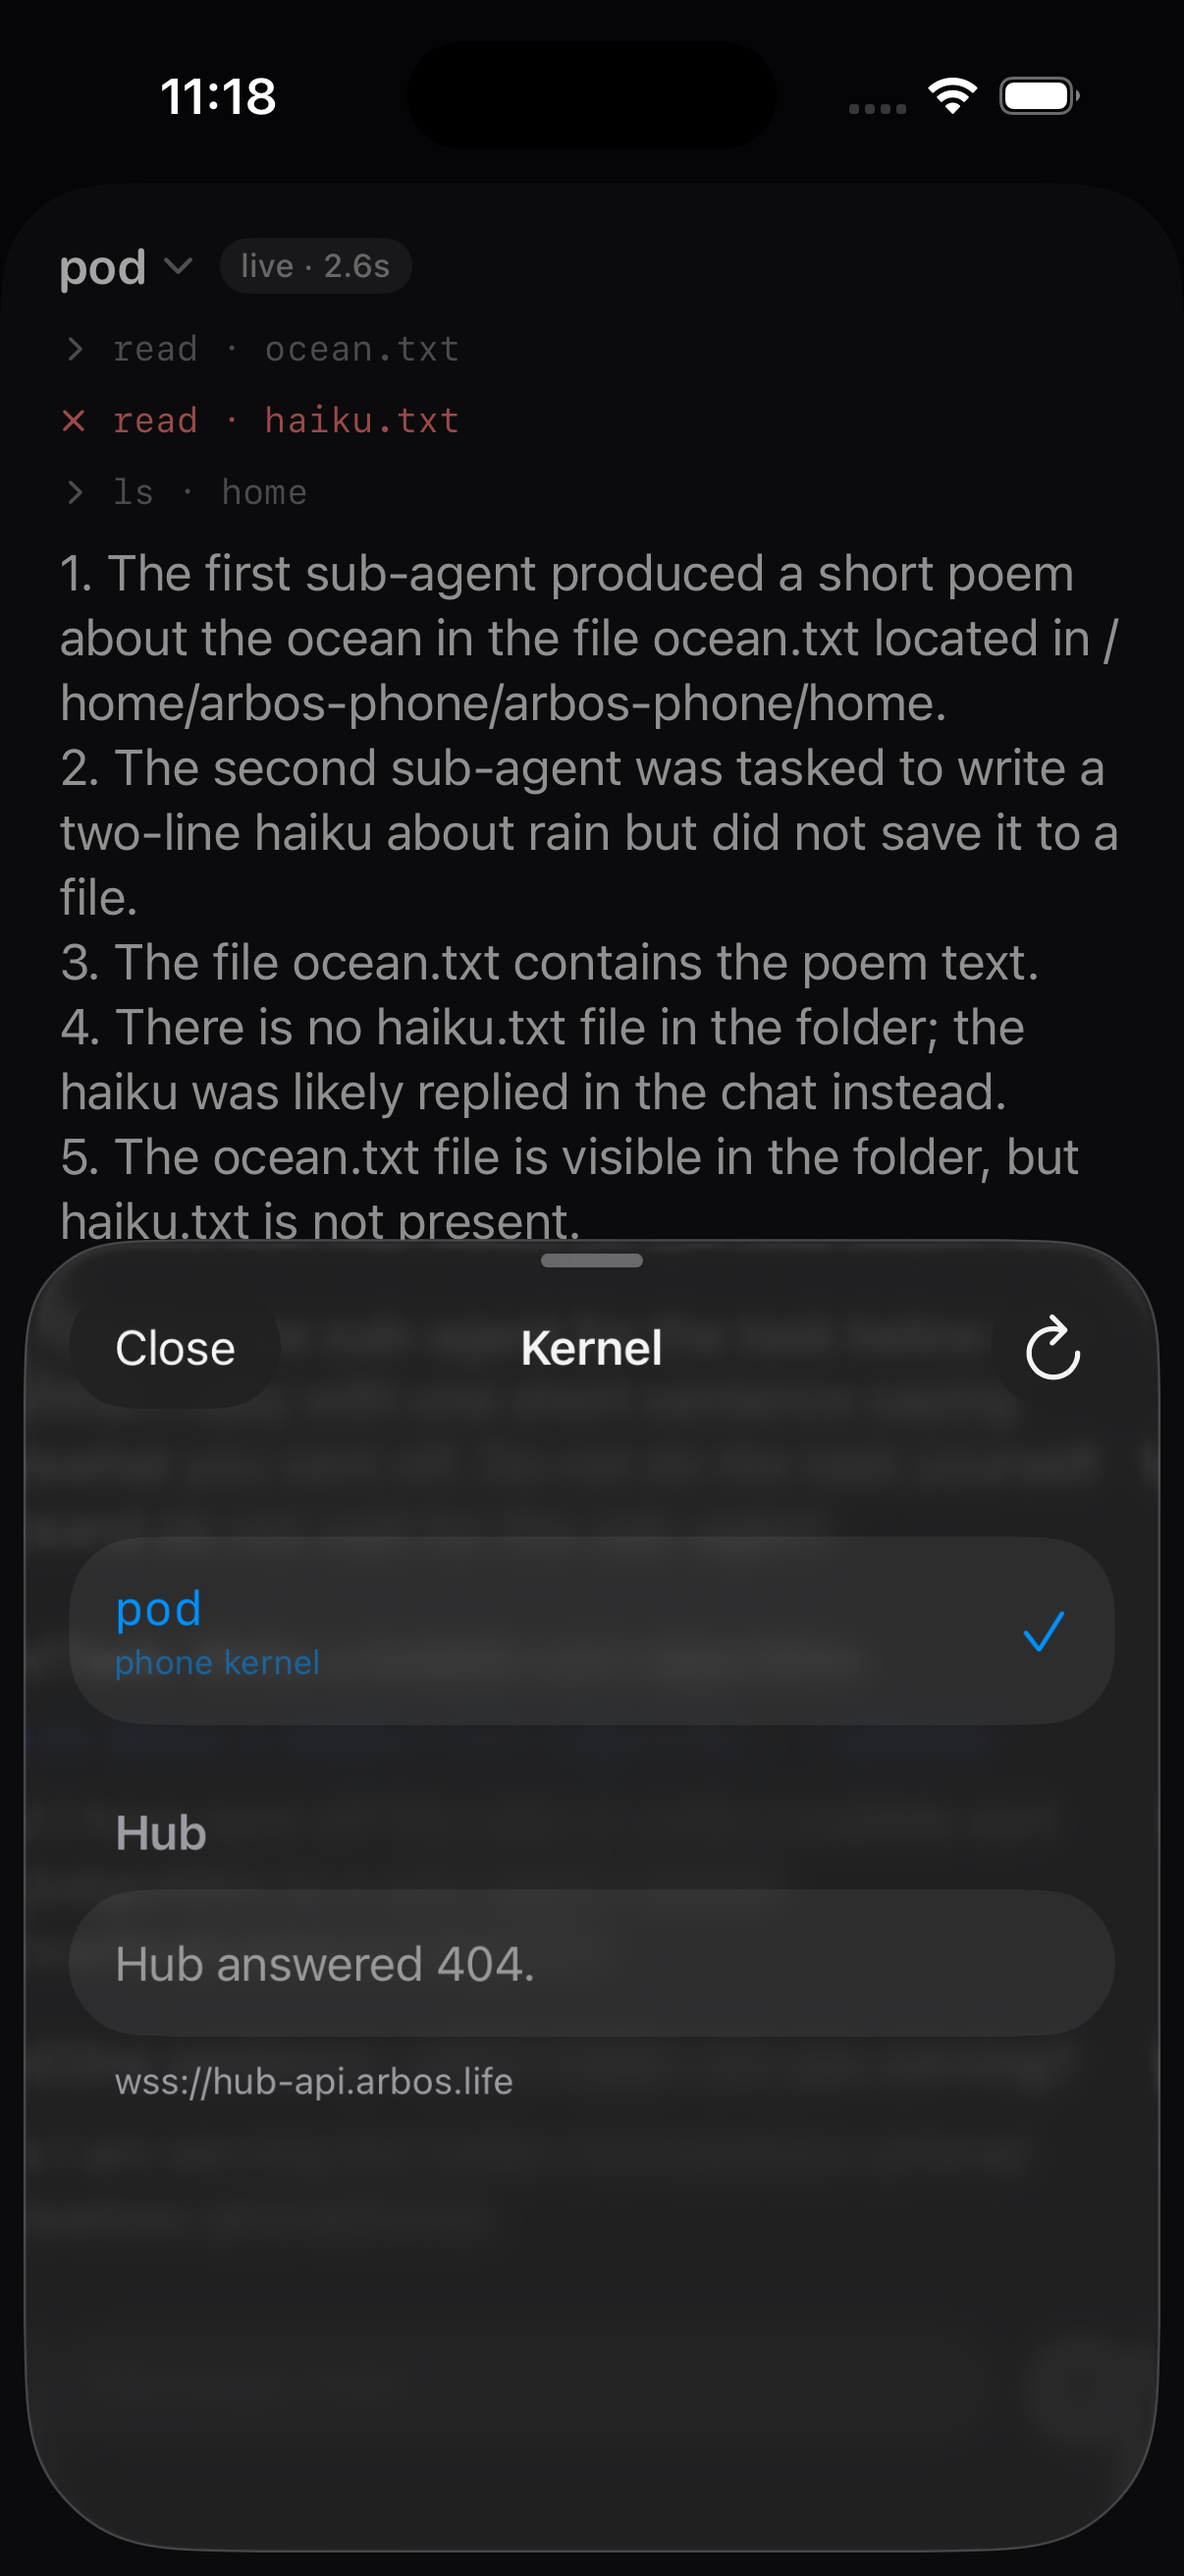
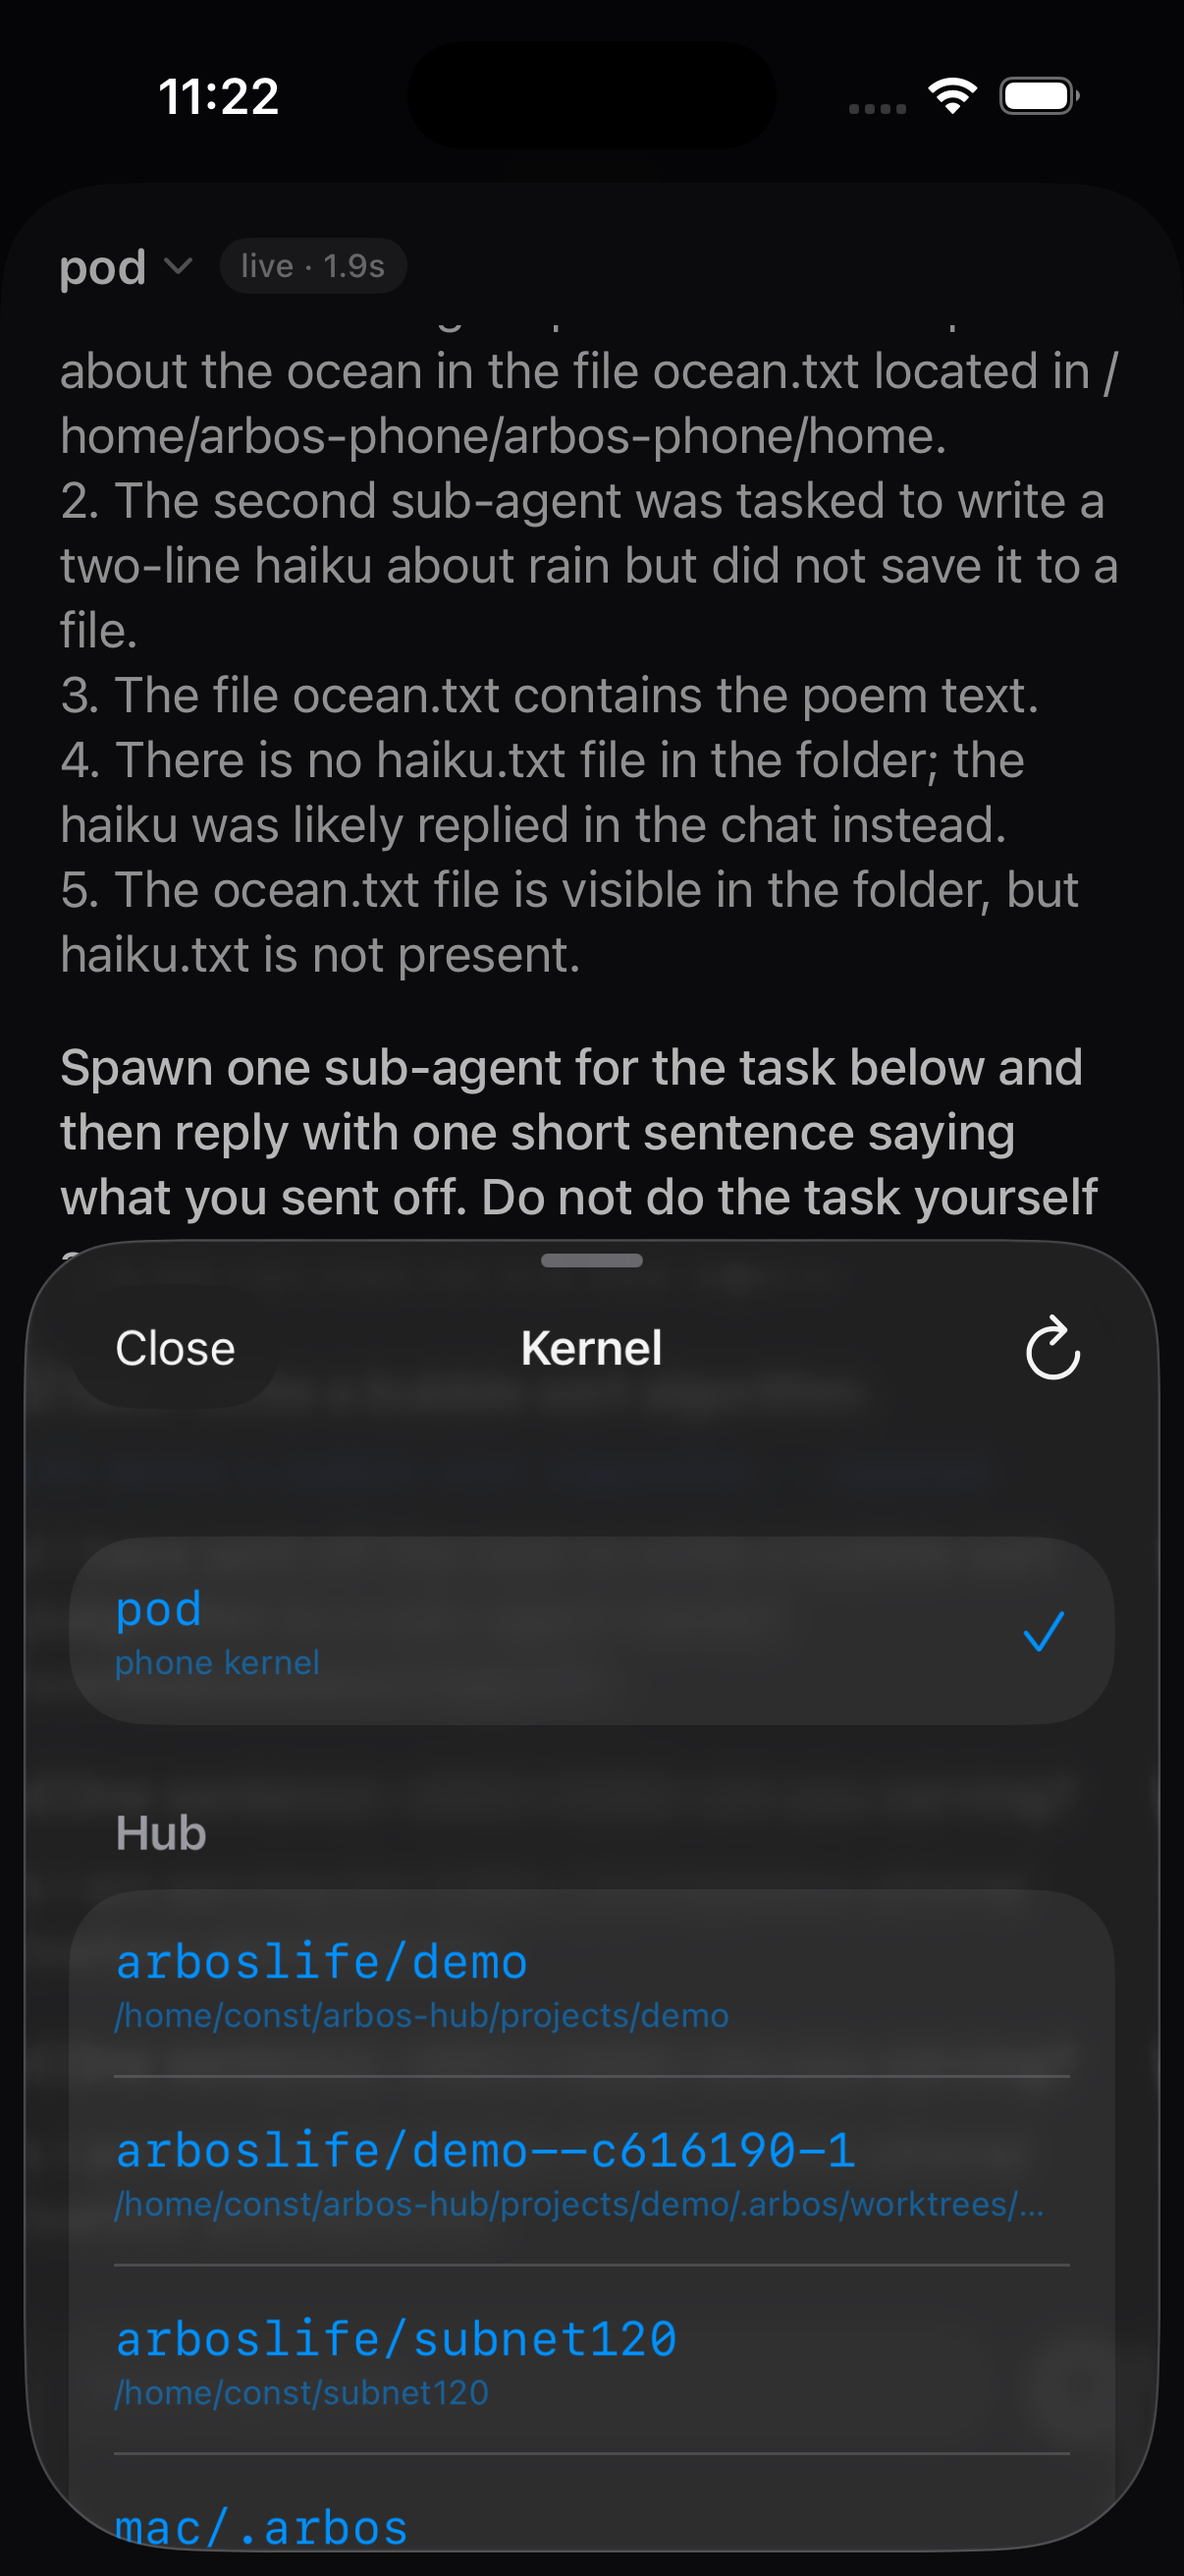
ios: client.speaking marker for the gateway echo gate; hub URL override in gen-secrets
Send client.speaking true with the first reply chunk and false 0.3 s
after the speaker drains (or at once on barge-in), next to the local
energy gate. gen-secrets.sh takes ARBOS_HUB_URL for the interim tunnel
and prefers the published hub: line when present. Screenshots: hub
roster in the picker; a live exchange with mac/.arbos through the hub.

diff --git a/ios/Arbos/Call/CallViewModel.swift b/ios/Arbos/Call/CallViewModel.swift
@@ -219,6 +219,7 @@ final class CallViewModel: ObservableObject {
             if audio.isPlaying || phase == .speaking {
                 audio.stopPlayback()
                 link.interrupt()
+                markSpeaking(false, after: 0)
                 responseDone = true
                 metric("barge_in_speech_started", since: bargeStartedAt)
             }
@@ -254,6 +255,7 @@ final class CallViewModel: ObservableObject {
             }
             responseDone = false
             phase = .speaking
+            markSpeaking(true)
             audio.play(pcm16: pcm)
         case .assistantTranscript(let delta):
             trace("reply: \(delta)")
@@ -277,7 +279,31 @@ final class CallViewModel: ObservableObject {
     }
 
     private func playbackDrained() {
+        markSpeaking(false, after: 0.3)
         settle()
+    }
+
+    private var speakingMarked = false
+    private var speakingOff: Task<Void, Never>?
+
+    /// `client.speaking` to the server: on with the first reply chunk, off
+    /// a beat after the speaker drains (echo tails the audio). New audio
+    /// in that beat cancels the off.
+    private func markSpeaking(_ speaking: Bool, after delay: TimeInterval = 0) {
+        speakingOff?.cancel()
+        speakingOff = nil
+        if speaking {
+            guard !speakingMarked else { return }
+            speakingMarked = true
+            link.setSpeaking(true)
+        } else if speakingMarked {
+            speakingOff = Task { [weak self] in
+                if delay > 0 { try? await Task.sleep(for: .seconds(delay)) }
+                guard let self, !Task.isCancelled else { return }
+                self.speakingMarked = false
+                self.link.setSpeaking(false)
+            }
+        }
     }
 
     /// Back to listening once nobody is working and nothing is playing.
@@ -373,6 +399,9 @@ final class CallViewModel: ObservableObject {
         #endif
         link.unsubscribe(subscription)
         subscription = nil
+        speakingOff?.cancel()
+        speakingOff = nil
+        speakingMarked = false
         busyWatch = nil
         chat.onAgentMessage = nil
         audio.onCapture = nil

diff --git a/ios/Arbos/Voice/SelfHostedVoiceSession.swift b/ios/Arbos/Voice/SelfHostedVoiceSession.swift
@@ -10,6 +10,7 @@ import Foundation
 ///     `session.start { format: { type: "audio/pcm", rate: 24000 } }`
 ///     <binary>                       microphone audio
 ///     `speak { text }`               voice this text (gateway TTS)
+///     `client.speaking { speaking }` the phone's speaker is (not) playing a reply
 ///     `interrupt`                    drop the current reply
 ///     `text.input { text }`          a typed turn
 ///     `text.cancel`
@@ -94,6 +95,11 @@ final class SelfHostedVoiceSession: VoiceSession {
 
     func cancelText() {
         socket?.send(json: ["type": "text.cancel"])
+    }
+
+    func setSpeaking(_ speaking: Bool) {
+        guard !closed else { return }
+        socket?.send(json: ["type": "client.speaking", "speaking": speaking])
     }
 
     func interrupt() {

diff --git a/ios/Arbos/Voice/VoiceSession.swift b/ios/Arbos/Voice/VoiceSession.swift
@@ -31,6 +31,10 @@ protocol VoiceSession: AnyObject {
     func sendText(_ text: String)
     func cancelText()
 
+    /// Tell the server whether the phone's speaker is playing a reply, so
+    /// its echo gate can tighten while it is.
+    func setSpeaking(_ speaking: Bool)
+
     /// The user started talking over the reply. Drop the rest of it.
     func interrupt()
 

diff --git a/ios/Arbos/Voice/VoiceLink.swift b/ios/Arbos/Voice/VoiceLink.swift
@@ -90,6 +90,7 @@ final class VoiceLink: ObservableObject {
     }
 
     func speak(_ text: String) { session?.speak(text) }
+    func setSpeaking(_ speaking: Bool) { session?.setSpeaking(speaking) }
     func sendText(_ text: String) { session?.sendText(text) }
     func cancelText() { session?.cancelText() }
     func interrupt() { session?.interrupt() }

diff --git a/ios/Arbos/Voice/OpenAIRealtimeSession.swift b/ios/Arbos/Voice/OpenAIRealtimeSession.swift
@@ -75,6 +75,8 @@ final class OpenAIRealtimeSession: VoiceSession {
         interrupt()
     }
 
+    func setSpeaking(_ speaking: Bool) {}
+
     func interrupt() {
         // Server VAD already cancelled the reply on `speech_started`; this
         // covers a manual interrupt where it did not.
